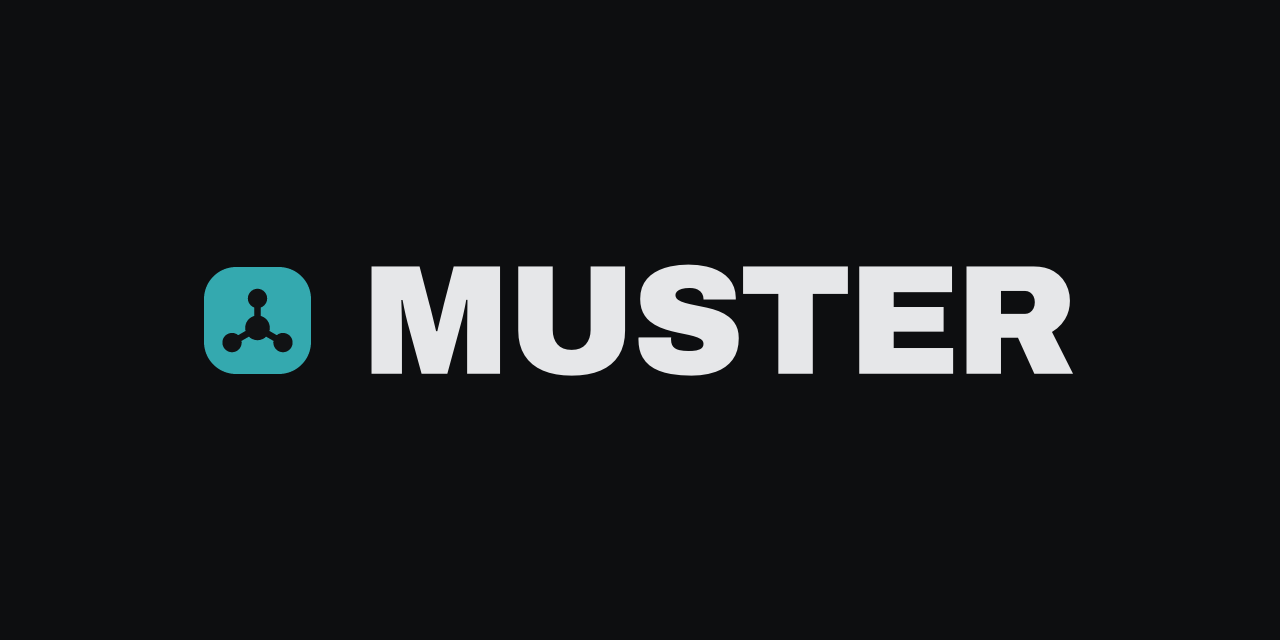
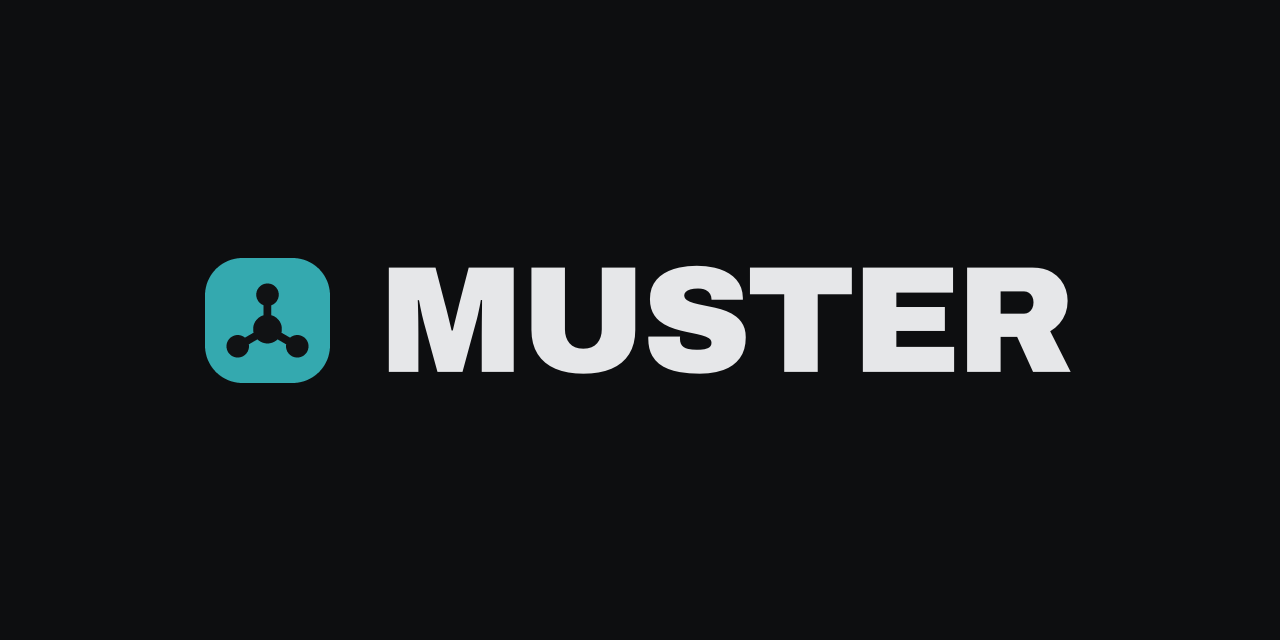
Give the mark its own measure, a sixth over the caps
The banner's mark was sized to the wordmark's cap height exactly, flat top
to flat top, and came out looking *smaller* than the letters beside it: the
round tops of U, S and R carry overshoot, so "MUSTER" draws 118 px of ink
against a 113 px square, and the eye reads a solid block against a row of
strokes as the lesser of the two anyway. Umber sets its mark about a sixth
over its caps and the rest of the family follows, so Muster now does too.

`MARK_PER_CAP` is that ratio, stated once and used by both the arrangements
that lay the group out as a row: the README banners and the installer's
progress strip. The two are centred on one line rather than aligned at the
top, which is what the mark standing taller than the caps asks for.
`GAP_FRACTION` is now a fraction of the cap rather than of the mark, so a
taller mark moves the mark alone and not the air beside it.

The pair still occupies the same width to within a pixel, so the margin
§17.4 calls generous is unchanged: the balance inside the group moved, the
group did not. Regenerated `banner.png`, `banner-paper.png`,
`social-preview.png` and the installer's `banner.bmp`; the icon set and
`dialog.bmp` came out byte for byte what they were.

Claude-Session: https://claude.ai/code/session_013mk2WBJRJ4tc4HCH2PE2Sx

diff --git a/crates/muster-app/examples/make-art.rs b/crates/muster-app/examples/make-art.rs
@@ -22,11 +22,12 @@
 //!   a bold gets the Regular master back without complaint. `skrifa` applies
 //!   them, which is why it is here for one string. This is the same reason
 //!   Umber's splash carries it.
-//! * **The cap height is the mark's side, not the em.** §17.4 puts the mark
-//!   beside the wordmark, and the two read as one object only if the letters'
-//!   flat tops line up with the square's. Setting the point size and hoping
-//!   gets it wrong by the font's ascender, which is about a third of the height
-//!   too much.
+//! * **The wordmark is sized by its cap height, not by the em.** §17.4 puts
+//!   the mark beside the wordmark, and the two read as one object only if the
+//!   letters are set against the square's own measure. Setting the point size
+//!   and hoping gets it wrong by the font's ascender, which is about a third of
+//!   the height too much. The mark then takes [`MARK_PER_CAP`] of that cap and
+//!   the two are centred on one line.
 
 use ab_glyph_rasterizer::{Point, Rasterizer, point};
 use muster_app::art::{Image, mark};
@@ -113,7 +114,18 @@ const SIDEBAR_GAP: f32 = 22.0;
 /// Tracking, in pixels, at a 64 px em. Negative: the wordmark is set tight.
 const TRACKING_AT_64: f32 = -2.0;
 
-/// The space between the mark and the first letter, as a fraction of the mark.
+/// The mark's side, as a multiple of the wordmark's cap height.
+///
+/// Not one. A square exactly as tall as the caps reads as *smaller* than them,
+/// because the letters carry overshoot on their round tops and the eye measures
+/// a solid block against a row of strokes. Umber's banner sets the mark a sixth
+/// again over the caps and every repository in the family follows it, so the
+/// number is here rather than in the two places that lay the row out.
+const MARK_PER_CAP: f32 = 1.2;
+
+/// The space between the mark and the first letter, as a fraction of the cap
+/// height. Of the cap rather than of the mark, so that making the mark taller
+/// moves the mark alone and not the air beside it.
 const GAP_FRACTION: f32 = 0.46;
 
 /// How much of the banner's width the mark and wordmark together may occupy.
@@ -176,14 +188,17 @@ fn banner(width: u32, height: u32, palette: Palette) -> Image {
     // calculation rather than a guess per banner size.
     const PROBE: f32 = 100.0;
     let probe = Font::new(PROBE).expect("Archivo is a variable font with a wght axis");
-    let probe_total = PROBE + PROBE * GAP_FRACTION + probe.width(WORDMARK);
+    let probe_total = PROBE * MARK_PER_CAP + PROBE * GAP_FRACTION + probe.width(WORDMARK);
 
-    let side = (height as f32 * 0.34)
+    // A third of the height is the mark's share, so the height constrains the
+    // mark and the width constrains the pair.
+    let cap = (height as f32 * 0.34 / MARK_PER_CAP)
         .min(PROBE * (width as f32 * CONTENT_FRACTION) / probe_total)
         .round();
-    let gap = side * GAP_FRACTION;
+    let side = (cap * MARK_PER_CAP).round();
+    let gap = cap * GAP_FRACTION;
 
-    let font = Font::new(side).expect("Archivo is a variable font with a wght axis");
+    let font = Font::new(cap).expect("Archivo is a variable font with a wght axis");
     let text = font.width(WORDMARK);
     let total = side + gap + text;
 
@@ -191,9 +206,11 @@ fn banner(width: u32, height: u32, palette: Palette) -> Image {
     let y = ((height as f32 - side) / 2.0).round();
 
     stamp(&mut image, x, y, side, palette);
-    // The baseline sits one cap height below the mark's top, which is what puts
-    // the letters' flat tops on the square's.
-    font.draw(WORDMARK, x + side + gap, y + side, |px, py, coverage| {
+    // The mark stands taller than the caps, so the two share a centre line
+    // rather than a top edge: the cap band is centred on the same middle the
+    // square is, which is the baseline one half cap below it.
+    let baseline = (height as f32 / 2.0 + cap / 2.0).round();
+    font.draw(WORDMARK, x + side + gap, baseline, |px, py, coverage| {
         image.blend(px, py, palette.text_strong, coverage)
     });
 
@@ -230,17 +247,19 @@ fn installer_banner() -> Image {
 
     const PROBE: f32 = 100.0;
     let probe = Font::new(PROBE).expect("Archivo");
-    let probe_total = PROBE + PROBE * GAP_FRACTION + probe.width(WORDMARK);
+    let probe_total = PROBE * MARK_PER_CAP + PROBE * GAP_FRACTION + probe.width(WORDMARK);
 
-    let side = (h as f32 - BLOCK_MARGIN * 2.0).min(PROBE * available / probe_total);
-    let gap = side * GAP_FRACTION;
-    let font = Font::new(side).expect("Archivo");
+    let cap = ((h as f32 - BLOCK_MARGIN * 2.0) / MARK_PER_CAP).min(PROBE * available / probe_total);
+    let side = cap * MARK_PER_CAP;
+    let gap = cap * GAP_FRACTION;
+    let font = Font::new(cap).expect("Archivo");
     let total = side + gap + font.width(WORDMARK);
     let x = BANNER_SPLIT as f32 + (block_w - total) / 2.0;
     let y = (h as f32 - side) / 2.0;
 
     stamp(&mut image, x, y, side, ink);
-    font.draw(WORDMARK, x + side + gap, y + side, |px, py, coverage| {
+    let baseline = h as f32 / 2.0 + cap / 2.0;
+    font.draw(WORDMARK, x + side + gap, baseline, |px, py, coverage| {
         image.blend(px, py, ink.text_strong, coverage)
     });
 
